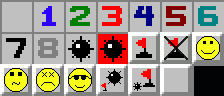
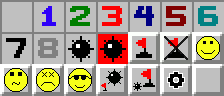
Added settings and multimines sprites

Changed region(s): [[0.7188, 0.6562, 1.0, 1.0]]

diff --git a/freeform_minesweeper/freeform_minesweeper.py b/freeform_minesweeper/freeform_minesweeper.py
@@ -45,12 +45,13 @@ class Constants:
     DEFAULT_COLOUR = '#d9d9d9'
     FONT = ('MINE-SWEEPER', 7, 'normal')
     MAINLOOP_TIME = 0.01
-    BLACK_SQUARE = Image.new('RGBA', size=(32, 32), color=(0, 0, 0))
+    LOCKED_BLACK_SQUARE = Image.new('RGBA', size=(32, 32), color=(0, 0, 0))
+    UNLOCKED_BLACK_SQUARE = Image.new('RGBA', size=(32, 32), color=(0, 0, 0))
     FILE_TYPE = (('FreeForm Minesweeper Board', '*.ffmnswpr'),)
 
     @staticmethod
     def init_board_images() -> None:
-        Constants.BLACK_SQUARE = ImageTk.PhotoImage(image=Constants.BLACK_SQUARE)
+        Constants.LOCKED_BLACK_SQUARE = ImageTk.PhotoImage(image=Constants.LOCKED_BLACK_SQUARE)
         BOARD_IMAGES = []
         with Image.open('assets/board_sheet.png') as board_sheet:
             x, y = board_sheet.size
@@ -393,7 +394,7 @@ class BoardSquare(tk.Label):
             GameControl.flags_placed += 1
         elif self.flagged:
             self.flagged = not self.flagged
-            self.image = Constants.BOARD_IMAGES[19]
+            self.image = Constants.BOARD_IMAGES[20]
             self.config(im=self.image)
             GameControl.flags_placed -= 1
         WindowControl.update_flag_counter()
@@ -413,21 +414,21 @@ class BoardSquare(tk.Label):
 
     def toggle_enable(self) -> None:
         if self.enabled:
-            self.config(im=Constants.BOARD_IMAGES[20])
+            self.config(im=Constants.UNLOCKED_BLACK_SQUARE)
         else:
             self.config(im=self.image)
         self.enabled = not self.enabled
 
     def lock(self) -> None:
         if not self.enabled:
-            self.config(im=Constants.BLACK_SQUARE)
+            self.config(im=Constants.LOCKED_BLACK_SQUARE)
 
     def unlock(self) -> None:
         if not self.enabled:
-            self.config(im=Constants.BOARD_IMAGES[20])
+            self.config(im=Constants.UNLOCKED_BLACK_SQUARE)
 
     def reset(self) -> None:
-        self.image = Constants.BOARD_IMAGES[19]
+        self.image = Constants.BOARD_IMAGES[20]
         self.config(im=self.image)
         self.uncovered = False
         self.flagged = False
@@ -485,7 +486,7 @@ class WindowControl:
             WindowControl.board_frame.grid_columnconfigure(i, minsize=Constants.BOARD_SQUARE_SIZE)
         for x in range(Options.rows):
             for y in range(Options.cols):
-                sq = BoardSquare(WindowControl.board_frame, Constants.BOARD_SQUARE_SIZE, Constants.BOARD_IMAGES[19])
+                sq = BoardSquare(WindowControl.board_frame, Constants.BOARD_SQUARE_SIZE, Constants.BOARD_IMAGES[20])
                 sq.toggle_enable()
                 sq.bind('<Button-1>', lambda event, square=sq: square.toggle_enable())
                 sq.bind('<B1-Motion>', lambda event, square=sq: WindowControl.drag_enable_toggle(event, square))
